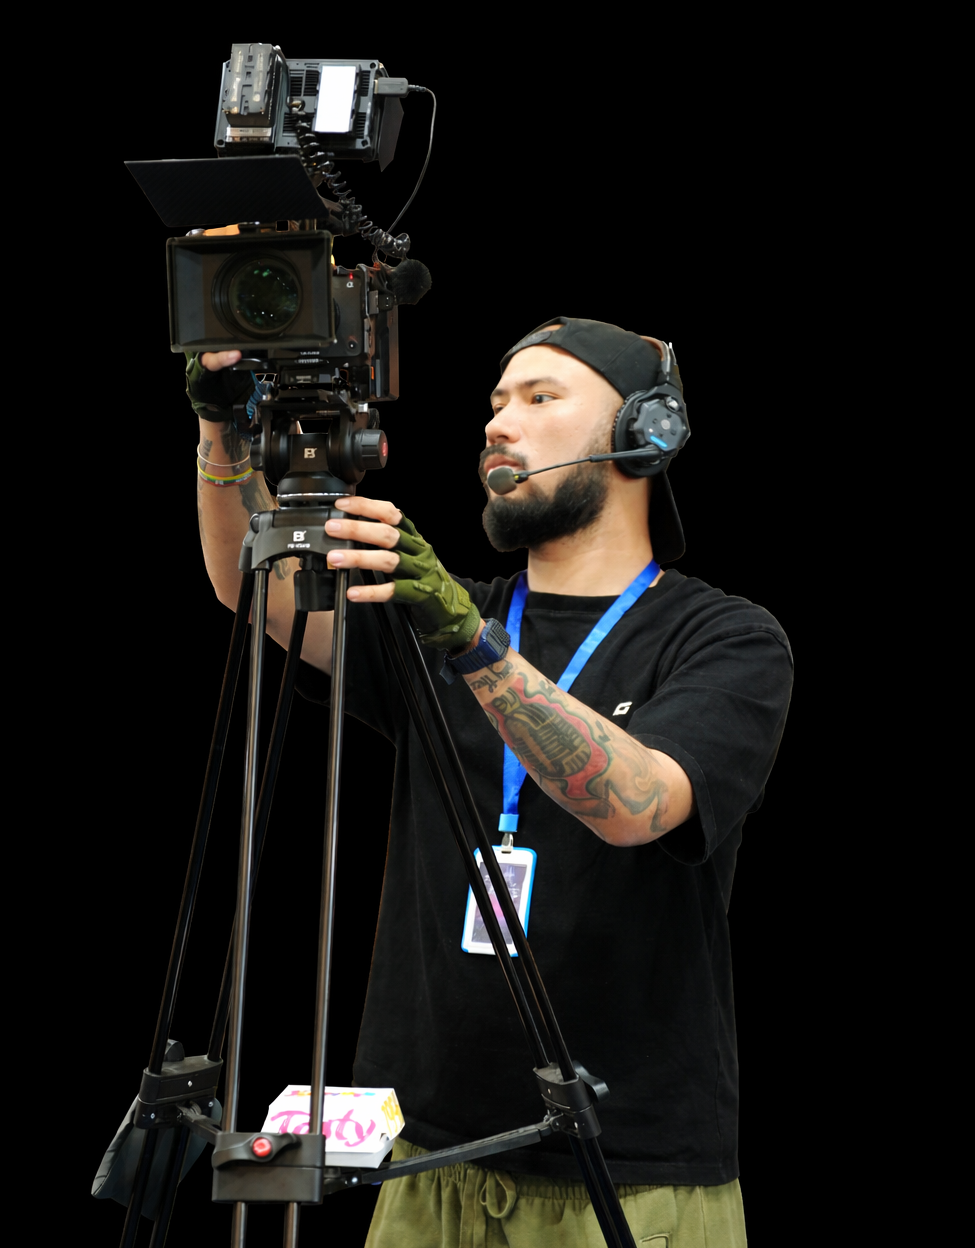
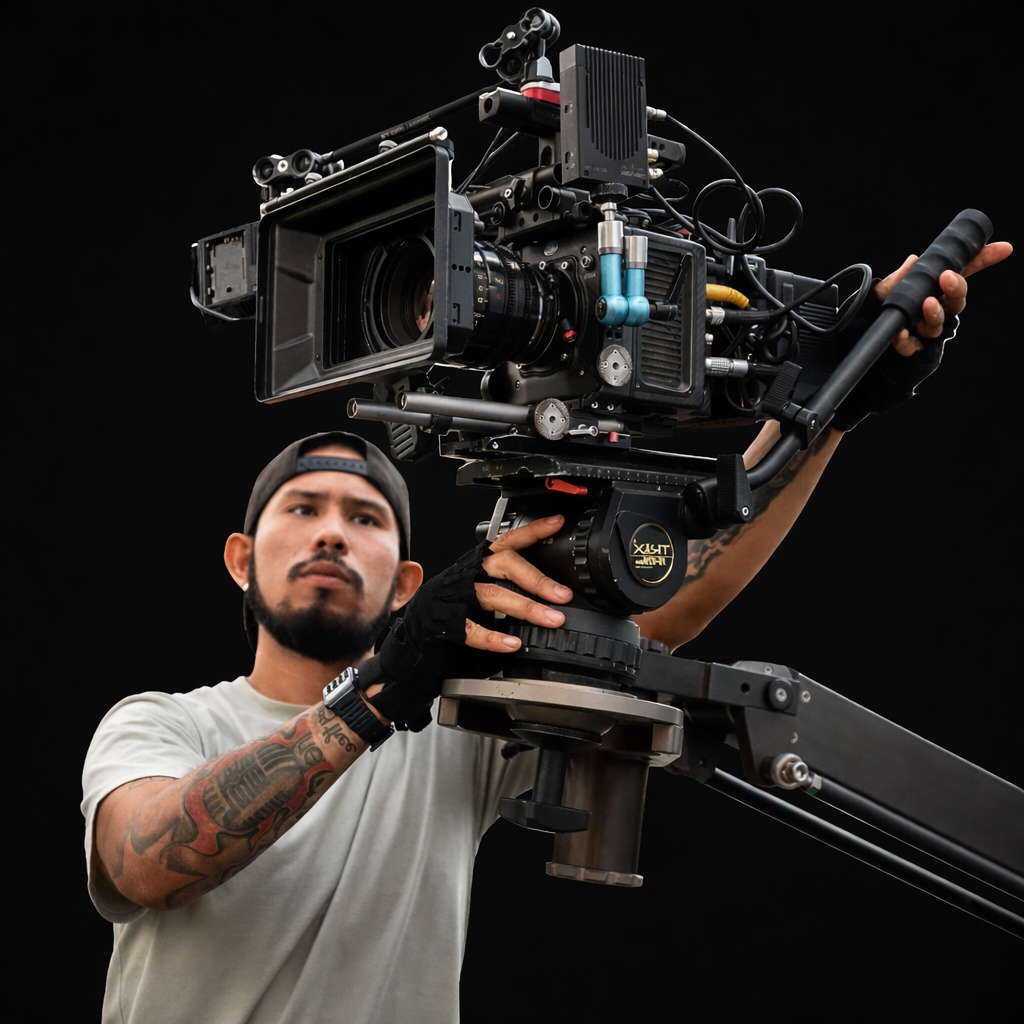
change design

diff --git a/src/pages/Activity.jsx b/src/pages/Activity.jsx
@@ -113,151 +113,26 @@ const Activity = () => {
       {/* Activity Gallery Section */}
       <section className="py-20 px-4 bg-black relative">
         <div className="container mx-auto max-w-7xl">
-          {/* Highlight Images - Two Column Grid */}
-          {allActivities.highlights.length > 0 && (
-            <motion.div
-              variants={containerVariants}
-              initial="hidden"
-              whileInView="visible"
-              viewport={{ once: true }}
-              className="grid grid-cols-1 md:grid-cols-2 gap-0 mb-0"
-            >
-              {/* Left Column: Single Image (S__14155817.jpg) */}
-              {allActivities.highlights.filter(activity => activity.image.includes('S__14155817')).map((activity) => (
-                <motion.div
-                  key={activity.id}
-                  variants={itemVariants}
-                  className="relative group cursor-pointer overflow-hidden"
-                  onClick={() => setSelectedImage(activity)}
-                >
-                  <div className="relative overflow-hidden">
-                    <img
-                      src={activity.image}
-                      alt={activity.title}
-                      className="w-full h-auto object-cover transition-transform duration-500 group-hover:scale-110 block"
-                      style={{
-                        display: 'block',
-                        margin: 0,
-                        padding: 0,
-                      }}
-                      onError={(e) => {
-                        e.target.style.display = 'none'
-                      }}
-                    />
-                    
-                    {/* Black filter from edges to center - starts full black and fades to center */}
-                    <div 
-                      className="absolute inset-0 pointer-events-none"
-                      style={{
-                        background: 'radial-gradient(ellipse at center, transparent 40%, rgba(0, 0, 0, 0.3) 60%, rgba(0, 0, 0, 0.6) 80%, rgba(0, 0, 0, 1) 100%)',
-                      }}
-                    ></div>
-                    
-                    {/* Additional edge darkening from all sides - full black at edges */}
-                    <div 
-                      className="absolute inset-0 pointer-events-none"
-                      style={{
-                        background: `
-                          linear-gradient(to right, rgba(0, 0, 0, 1) 0%, rgba(0, 0, 0, 0.8) 8%, transparent 20%, transparent 80%, rgba(0, 0, 0, 0.8) 92%, rgba(0, 0, 0, 1) 100%),
-                          linear-gradient(to bottom, rgba(0, 0, 0, 1) 0%, rgba(0, 0, 0, 0.8) 8%, transparent 20%, transparent 80%, rgba(0, 0, 0, 0.8) 92%, rgba(0, 0, 0, 1) 100%)
-                        `,
-                      }}
-                    ></div>
-                    
-                    {/* Gradient Overlay on hover */}
-                    <div className="absolute inset-0 bg-gradient-to-t from-black/80 via-black/30 to-transparent opacity-0 group-hover:opacity-100 transition-opacity duration-300"></div>
-                  </div>
-                </motion.div>
-              ))}
-
-              {/* Right Column: Two Images Stacked Vertically */}
-              <div className="flex flex-col">
-                {allActivities.highlights.filter(activity => !activity.image.includes('S__14155817')).slice(0, 2).map((activity) => (
-                  <motion.div
-                    key={activity.id}
-                    variants={itemVariants}
-                    className="relative group cursor-pointer overflow-hidden"
-                    onClick={() => setSelectedImage(activity)}
-                  >
-                    <div className="relative overflow-hidden">
-                      <img
-                        src={activity.image}
-                        alt={activity.title}
-                        className="w-full h-auto object-cover transition-transform duration-500 group-hover:scale-110 block"
-                        style={{
-                          display: 'block',
-                          margin: 0,
-                          padding: 0,
-                        }}
-                        onError={(e) => {
-                          e.target.style.display = 'none'
-                        }}
-                      />
-                      
-                      {/* Black filter from edges to center - starts full black and fades to center */}
-                      <div 
-                        className="absolute inset-0 pointer-events-none"
-                        style={{
-                          background: 'radial-gradient(ellipse at center, transparent 40%, rgba(0, 0, 0, 0.3) 60%, rgba(0, 0, 0, 0.6) 80%, rgba(0, 0, 0, 1) 100%)',
-                        }}
-                      ></div>
-                      
-                      {/* Additional edge darkening from all sides - full black at edges */}
-                      <div 
-                        className="absolute inset-0 pointer-events-none"
-                        style={{
-                          background: `
-                            linear-gradient(to right, rgba(0, 0, 0, 1) 0%, rgba(0, 0, 0, 0.8) 8%, transparent 20%, transparent 80%, rgba(0, 0, 0, 0.8) 92%, rgba(0, 0, 0, 1) 100%),
-                            linear-gradient(to bottom, rgba(0, 0, 0, 1) 0%, rgba(0, 0, 0, 0.8) 8%, transparent 20%, transparent 80%, rgba(0, 0, 0, 0.8) 92%, rgba(0, 0, 0, 1) 100%)
-                          `,
-                        }}
-                      ></div>
-                      
-                    {/* Gradient Overlay on hover */}
-                    <div className="absolute inset-0 bg-gradient-to-t from-black/80 via-black/30 to-transparent opacity-0 group-hover:opacity-100 transition-opacity duration-300"></div>
-                  </div>
-                </motion.div>
-              ))}
-              </div>
-            </motion.div>
-          )}
-
-          {/* Regular Activity Images */}
+          {/* All Activity Images (Highlights first) - Masonry-style 4 Column Layout */}
           <motion.div
             variants={containerVariants}
             initial="hidden"
             whileInView="visible"
             viewport={{ once: true }}
-            className="grid grid-cols-2 md:grid-cols-3 lg:grid-cols-4 gap-0"
+            className="columns-2 md:columns-3 lg:columns-4 gap-6 max-w-7xl mx-auto"
           >
-            {allActivities.regulars.map((activity, index) => {
-              // Varying sizes for different images - smaller variations
-              const sizeVariations = [
-                { colSpan: '', aspect: 'aspect-square' },
-                { colSpan: '', aspect: 'aspect-[4/5]' },
-                { colSpan: '', aspect: 'aspect-[5/4]' },
-                { colSpan: 'col-span-2', aspect: 'aspect-[2/1]' },
-                { colSpan: '', aspect: 'aspect-square' },
-                { colSpan: '', aspect: 'aspect-[3/4]' },
-                { colSpan: '', aspect: 'aspect-[4/3]' },
-                { colSpan: '', aspect: 'aspect-square' },
-                { colSpan: '', aspect: 'aspect-[5/6]' },
-              ]
-              
-              const variation = sizeVariations[index % sizeVariations.length]
-              
-              return (
+            {[...allActivities.highlights, ...allActivities.regulars].map((activity) => (
               <motion.div
                 key={activity.id}
                 variants={itemVariants}
-                className={`relative group cursor-pointer overflow-hidden ${variation.colSpan}`}
+                className="relative group cursor-pointer overflow-hidden rounded-2xl bg-[#050505] border border-white/5 shadow-lg shadow-black/40 mb-6 break-inside-avoid"
                 onClick={() => setSelectedImage(activity)}
               >
-                <div className={`relative overflow-hidden ${variation.aspect}`}>
+                <div className="relative overflow-hidden rounded-2xl">
                   <img
                     src={activity.image}
                     alt={activity.title}
-                    className="w-full h-full object-cover transition-transform duration-500 group-hover:scale-110 block"
+                    className="w-full h-auto object-cover transition-transform duration-500 group-hover:scale-110 block"
                     style={{
                       display: 'block',
                       margin: 0,
@@ -268,25 +143,6 @@ const Activity = () => {
                       e.target.style.display = 'none'
                     }}
                   />
-                  
-                  {/* Black filter from edges to center - starts full black and fades to center */}
-                  <div 
-                    className="absolute inset-0 pointer-events-none"
-                    style={{
-                      background: 'radial-gradient(ellipse at center, transparent 40%, rgba(0, 0, 0, 0.3) 60%, rgba(0, 0, 0, 0.6) 80%, rgba(0, 0, 0, 1) 100%)',
-                    }}
-                  ></div>
-                  
-                  {/* Additional edge darkening from all sides - full black at edges */}
-                  <div 
-                    className="absolute inset-0 pointer-events-none"
-                    style={{
-                      background: `
-                        linear-gradient(to right, rgba(0, 0, 0, 1) 0%, rgba(0, 0, 0, 0.8) 8%, transparent 20%, transparent 80%, rgba(0, 0, 0, 0.8) 92%, rgba(0, 0, 0, 1) 100%),
-                        linear-gradient(to bottom, rgba(0, 0, 0, 1) 0%, rgba(0, 0, 0, 0.8) 8%, transparent 20%, transparent 80%, rgba(0, 0, 0, 0.8) 92%, rgba(0, 0, 0, 1) 100%)
-                      `,
-                    }}
-                  ></div>
                   
                   {/* Gradient Overlay on hover */}
                   <div className="absolute inset-0 bg-gradient-to-t from-black/80 via-black/30 to-transparent opacity-0 group-hover:opacity-100 transition-opacity duration-300"></div>
@@ -310,8 +166,7 @@ const Activity = () => {
                   </div>
                 </div>
               </motion.div>
-              )
-            })}
+            ))}
           </motion.div>
         </div>
         

diff --git a/src/pages/About.jsx b/src/pages/About.jsx
@@ -233,19 +233,19 @@ const About = () => {
                     alt="About"
                     className="w-full h-full object-cover mx-auto"
                     style={{
-                      filter: 'grayscale(100%) contrast(1.3) brightness(1.5)',
+                      filter: 'grayscale(100%) contrast(1.25) brightness(1.6)',
                     }}
                   />
                   {/* Black filter from left side - stronger */}
                   <div 
                     className="absolute inset-0"
                     style={{
-                      background: 'linear-gradient(to right, rgba(0, 0, 0, 0.9) 0%, rgba(0, 0, 0, 0.7) 30%, rgba(0, 0, 0, 0.5) 50%, rgba(0, 0, 0, 0.3) 70%, rgba(0, 0, 0, 0.1) 90%, transparent 100%)'
+                      background: 'linear-gradient(to right, rgba(0, 0, 0, 0.75) 0%, rgba(0, 0, 0, 0.55) 30%, rgba(0, 0, 0, 0.35) 50%, rgba(0, 0, 0, 0.2) 70%, rgba(0, 0, 0, 0.05) 90%, transparent 100%)'
                     }}
                   ></div>
                   {/* Additional dark overlay for button-like effect */}
                   <div 
-                    className="absolute inset-0 bg-black/30"
+                    className="absolute inset-0 bg-black/20"
                   ></div>
                   {/* Cool overlay effects */}
                   <div className="absolute inset-0 bg-gradient-to-br from-transparent via-transparent to-black/20"></div>
@@ -316,7 +316,7 @@ const About = () => {
                 { icon: 'M8 7V3m8 4V3m-9 8h10M5 21h14a2 2 0 002-2V7a2 2 0 00-2-2H5a2 2 0 00-2 2v12a2 2 0 002 2z', label: 'Date of Birth', value: '5.5.1995' },
                 { icon: 'M3.055 11H5a2 2 0 012 2v1a2 2 0 002 2 2 2 0 012 2v2.945M8 3.935V5.5A2.5 2.5 0 0010.5 8h.5a2 2 0 012 2 2 2 0 104 0 2 2 0 012-2h1.064M15 20.488V18a2 2 0 012-2h3.064M21 12a9 9 0 11-18 0 9 9 0 0118 0z', label: 'Nationality', value: 'Burma' },
                 { icon: 'M3 5h12M9 3v2m1.048 9.5A18.022 18.022 0 016.412 9m6.088 9h7M11 21l5-10 5 10M12.751 5C11.783 10.77 8.07 15.61 3 18.129', label: 'Languages', value: 'English, Thai (Basic)' },
-                { icon: 'M21 13.255A23.931 23.931 0 0112 15c-3.183 0-6.22-.62-9-1.745M16 6V4a2 2 0 00-2-2h-4a2 2 0 00-2 2v2m4 6h.01M5 20h14a2 2 0 002-2V8a2 2 0 00-2-2H5a2 2 0 00-2 2v10a2 2 0 002 2z', label: 'Position', value: 'Director, Cinematographer & Editor' },
+                { icon: 'M21 13.255A23.931 23.931 0 0112 15c-3.183 0-6.22-.62-9-1.745M16 6V4a2 2 0 00-2-2h-4a2 2 0 00-2 2v2m4 6h.01M5 20h14a2 2 0 002-2V8a2 2 0 00-2-2H5a2 2 0 00-2 2v10a2 2 0 002 2z', label: 'Position', value: 'Director, Cinematographer & Steadicam Operator' },
               ].map((item, index) => (
                 <motion.div
                   key={index}

diff --git a/src/pages/SkillsEducation.jsx b/src/pages/SkillsEducation.jsx
@@ -23,7 +23,7 @@ const SkillsEducation = () => {
 
   const skills = [
     {
-      title: 'Cinema/Videography',
+      title: 'Cinematography / Steadicam Operator',
       level: 'Expert',
       description: 'Expert level in managing workflows from pre-production to post-production. Proficient in camera operation and lighting distinction.',
       icon: '🎬',
